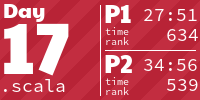
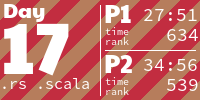
Day 17 2023

diff --git a/src/y2023/day17.rs b/src/y2023/day17.rs
@@ -1,0 +1,154 @@
+use std::{collections::HashMap, io::BufRead};
+
+use colored::Colorize;
+use glam::IVec2;
+use itertools::Itertools;
+use pathfinding::prelude::astar;
+
+use crate::{
+    aoc::{
+        day::{DayParser, DaySolution},
+        output,
+    },
+    common::{
+        grid::{
+            directions::{Direction, Turn},
+            distance::ManhattenDistance,
+            minmax, parse_map, print_area,
+            walk::Walk,
+        },
+        parsing::lines_iter,
+    },
+};
+
+pub const TITLE: &str = "Clumsy Crucible";
+
+#[derive(Debug, Clone, PartialEq, Eq, Hash)]
+struct State {
+    pos: IVec2,
+    dir: Direction,
+    steps: u8,
+}
+
+const START: State = State {
+    pos: IVec2::ZERO,
+    dir: Direction::Right,
+    steps: 0,
+};
+
+pub struct Solution {
+    map: HashMap<IVec2, u8>,
+    target: IVec2,
+}
+
+impl DayParser for Solution {
+    fn with_input(input: &mut dyn BufRead) -> Self {
+        let map = parse_map(lines_iter(input), |c| c.to_digit(10).unwrap() as u8);
+        let (_, target) = minmax::minmax_ivec2(map.keys());
+        Self { map, target }
+    }
+}
+
+impl DaySolution for Solution {
+    fn part1(&self) -> String {
+        self.find_path(1, 3).to_string()
+    }
+
+    fn part2(&self) -> String {
+        self.find_path(4, 10).to_string()
+    }
+}
+
+impl Solution {
+    fn find_path(&self, min_steps: u8, max_steps: u8) -> u32 {
+        let path = astar(
+            &START,
+            |state| state.next(&self.map, min_steps, max_steps),
+            |state| state.pos.manhattan_distance(&self.target),
+            |state| state.pos == self.target && state.steps >= min_steps,
+        )
+        .expect("No path found");
+
+        if output::is_debug_enabled() {
+            self.print_path(&path.0);
+        }
+
+        path.1
+    }
+
+    fn print_path(&self, path: &[State]) {
+        let path_direction = path
+            .iter()
+            .map(|state| (state.pos, state.dir))
+            .collect::<HashMap<IVec2, Direction>>();
+
+        print_area((IVec2::ZERO, self.target), |pos| {
+            match path_direction.get(&pos) {
+                Some(Direction::Up) => "^".red(),
+                Some(Direction::Right) => ">".red(),
+                Some(Direction::Down) => "v".red(),
+                Some(Direction::Left) => "<".red(),
+                None => self.map.get(&pos).unwrap().to_string().normal(),
+            }
+            .to_string()
+        });
+    }
+}
+
+impl State {
+    fn next(&self, map: &HashMap<IVec2, u8>, min_steps: u8, max_steps: u8) -> Vec<(Self, u32)> {
+        let mut possible_directions = vec![];
+        if self.steps < max_steps {
+            possible_directions.push((self.dir, self.steps + 1));
+        }
+        if self.steps >= min_steps {
+            possible_directions.push((self.dir.turn(&Turn::Left), 1));
+            possible_directions.push((self.dir.turn(&Turn::Right), 1));
+        }
+
+        possible_directions
+            .into_iter()
+            .flat_map(|(dir, steps)| {
+                let pos = self.pos.move_step(dir);
+                map.get(&pos)
+                    .map(|&value| (Self { pos, dir, steps }, value as u32))
+            })
+            .collect_vec()
+    }
+}
+
+#[cfg(test)]
+mod tests {
+    use super::*;
+    use crate::input;
+
+    #[test]
+    fn test_part1_example() {
+        let solution = Solution::with_input(input!(example));
+        assert_eq!(solution.part1(), "102");
+    }
+
+    #[test]
+    fn test_part1_input() {
+        let solution = Solution::with_input(input!(input));
+        assert_eq!(solution.part1(), "791");
+    }
+
+    #[test]
+    fn test_part2_example() {
+        let solution = Solution::with_input(input!(example));
+        assert_eq!(solution.part2(), "94");
+    }
+
+    #[test]
+    fn test_part2_example2() {
+        let solution = Solution::with_input(input!(example, 2));
+        assert_eq!(solution.part2(), "71");
+    }
+
+    #[test]
+    fn test_part2_input() {
+        let solution = Solution::with_input(input!(input));
+        assert_eq!(solution.part2(), "900");
+    }
+}

diff --git a/src/common/grid.rs b/src/common/grid.rs
@@ -69,6 +69,21 @@ pub fn print_set_range(set: &HashSet<IVec2>, range: (IVec2, IVec2)) {
     }
 }
 
+pub fn print_area<F>(area: (IVec2, IVec2), map_pos: F)
+where
+    F: Fn(IVec2) -> String,
+{
+    if output::is_debug_enabled() {
+        for y in area.0.y..=area.1.y {
+            output::println_debug(
+                (area.0.x..=area.1.x)
+                    .map(|x| map_pos(IVec2::new(x, y)))
+                    .collect(),
+            );
+        }
+    }
+}
+
 pub fn print_grid<T>(grid: &[&[T]], map_to_char: fn(&T) -> char) {
     if output::is_debug_enabled() {
         for &row in grid {

diff --git a/benches/solutions.rs b/benches/solutions.rs
@@ -63,5 +63,5 @@ benchmarks!(
     (Benchmark2016 / y2016: day1),
     (Benchmark2021 / y2021: day1),
     (Benchmark2022 / y2022: day1, day3, day4, day6, day10, day13, day16, day17, day23, day24, day25),
-    (Benchmark2023 / y2023: day1, day2, day3, day4, day6, day7, day8, day9, day12, day13, day15),
+    (Benchmark2023 / y2023: day1, day2, day3, day4, day6, day7, day8, day9, day12, day13, day15, day17),
 );

diff --git a/src/lib.rs b/src/lib.rs
@@ -62,5 +62,5 @@ aoc_solutions!(
     y2016: day1;
     y2021: day1;
     y2022: day1, day3, day4, day6, day10, day13, day16, day17, day23, day24, day25;
-    y2023: day1, day2, day3, day4, day6, day7, day8, day9, day12, day13, day15;
+    y2023: day1, day2, day3, day4, day6, day7, day8, day9, day12, day13, day15, day17;
 );

diff --git a/src/common/grid/directions.rs b/src/common/grid/directions.rs
@@ -24,7 +24,7 @@ pub const NEIGHBORS: [IVec2; 8] = [
 ];
 
 #[repr(u8)]
-#[derive(Debug, Clone, Copy)]
+#[derive(Debug, Clone, Copy, PartialEq, Eq, Hash)]
 pub enum Direction {
     Up = 0,
     Right = 1,

diff --git a/README.md b/README.md
@@ -53,7 +53,7 @@ Rust solutions for [Advent of Code](http://adventofcode.com/). My scala solution
 <a href="https://github.com/SuperTux88/adventofcode/blob/main/src/main/scala/adventofcode/y2023/Day16.scala">
   <img src="AoCTiles/2023/16.png" width="161px">
 </a>
-<a href="https://github.com/SuperTux88/adventofcode/blob/main/src/main/scala/adventofcode/y2023/Day17.scala">
+<a href="src/y2023/day17.rs">
   <img src="AoCTiles/2023/17.png" width="161px">
 </a>
 <h1 align="center">
